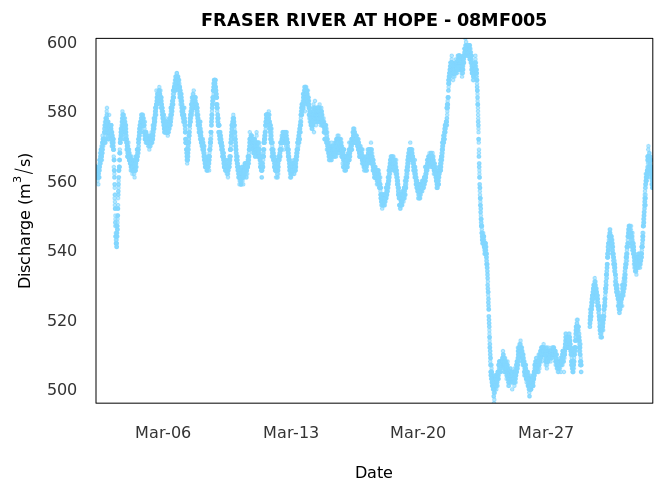
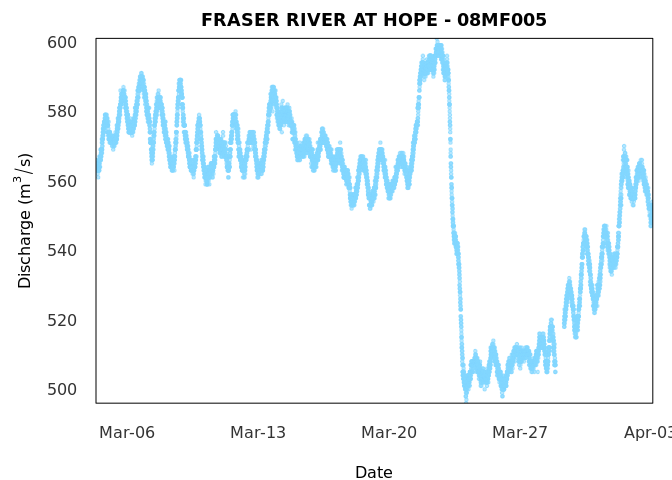
update for release

diff --git a/README.md b/README.md
@@ -5,7 +5,7 @@ tidyhydat <img src="man/figures/logo.png" align="right" />
 
 <!-- badges: start -->
 
-[![License](https://img.shields.io/badge/License-Apache%202.0-blue.svg)](https://opensource.org/license/apache-2-0/)
+[![License](https://img.shields.io/badge/License-Apache%202.0-blue.svg)](https://www.apache.org/licenses/LICENSE-2.0/)
 [![Coverage
 status](https://codecov.io/gh/ropensci/tidyhydat/branch/master/graph/badge.svg)](https://codecov.io/github/ropensci/tidyhydat?branch=master)
 [![R build
@@ -90,22 +90,22 @@ the same conventions discussed above. Using `realtime_dd()` we can
 easily select specific stations by supplying a station of interest:
 
     realtime_dd(station_number = "08MF005")
-    #>   Queried on: 2023-04-01 20:50:27 (UTC)
-    #>   Date range: 2023-03-02 to 2023-04-01 
-    #> # A tibble: 17,310 × 8
+    #>   Queried on: 2023-04-03 03:53:02 (UTC)
+    #>   Date range: 2023-03-04 to 2023-04-03 
+    #> # A tibble: 16,902 × 8
     #>    STATION_NUMBER PROV_TE…¹ Date                Param…² Value Grade Symbol Code 
     #>    <chr>          <chr>     <dttm>              <chr>   <dbl> <chr> <chr>  <chr>
-    #>  1 08MF005        BC        2023-03-02 08:00:00 Flow      562 <NA>  <NA>   1    
-    #>  2 08MF005        BC        2023-03-02 08:05:00 Flow      561 <NA>  <NA>   1    
-    #>  3 08MF005        BC        2023-03-02 08:10:00 Flow      564 <NA>  <NA>   1    
-    #>  4 08MF005        BC        2023-03-02 08:15:00 Flow      564 <NA>  <NA>   1    
-    #>  5 08MF005        BC        2023-03-02 08:20:00 Flow      563 <NA>  <NA>   1    
-    #>  6 08MF005        BC        2023-03-02 08:25:00 Flow      564 <NA>  <NA>   1    
-    #>  7 08MF005        BC        2023-03-02 08:30:00 Flow      564 <NA>  <NA>   1    
-    #>  8 08MF005        BC        2023-03-02 08:35:00 Flow      564 <NA>  <NA>   1    
-    #>  9 08MF005        BC        2023-03-02 08:40:00 Flow      564 <NA>  <NA>   1    
-    #> 10 08MF005        BC        2023-03-02 08:45:00 Flow      562 <NA>  <NA>   1    
-    #> # … with 17,300 more rows, and abbreviated variable names ¹PROV_TERR_STATE_LOC,
+    #>  1 08MF005        BC        2023-03-04 08:00:00 Flow      566 <NA>  <NA>   1    
+    #>  2 08MF005        BC        2023-03-04 08:05:00 Flow      564 <NA>  <NA>   1    
+    #>  3 08MF005        BC        2023-03-04 08:10:00 Flow      564 <NA>  <NA>   1    
+    #>  4 08MF005        BC        2023-03-04 08:15:00 Flow      564 <NA>  <NA>   1    
+    #>  5 08MF005        BC        2023-03-04 08:20:00 Flow      565 <NA>  <NA>   1    
+    #>  6 08MF005        BC        2023-03-04 08:25:00 Flow      564 <NA>  <NA>   1    
+    #>  7 08MF005        BC        2023-03-04 08:30:00 Flow      566 <NA>  <NA>   1    
+    #>  8 08MF005        BC        2023-03-04 08:35:00 Flow      564 <NA>  <NA>   1    
+    #>  9 08MF005        BC        2023-03-04 08:40:00 Flow      564 <NA>  <NA>   1    
+    #> 10 08MF005        BC        2023-03-04 08:45:00 Flow      564 <NA>  <NA>   1    
+    #> # … with 16,892 more rows, and abbreviated variable names ¹PROV_TERR_STATE_LOC,
     #> #   ²Parameter
 
 Or we can use `realtime_ws`:
@@ -121,20 +121,20 @@ Or we can use `realtime_ws`:
     #>   problems(dat)
     #> All station successfully retrieved
     #> All parameters successfully retrieved
-    #> # A tibble: 4,488 × 10
+    #> # A tibble: 4,267 × 10
     #>    STATIO…¹ Date                Name_En Value Unit  Grade Symbol Appro…² Param…³
     #>    <chr>    <dttm>              <chr>   <dbl> <chr> <chr> <chr>    <int>   <dbl>
-    #>  1 08MF005  2023-03-18 00:00:00 Water …  4.76 °C    -1    <NA>        NA       5
-    #>  2 08MF005  2023-03-18 01:00:00 Water …  3.91 °C    -1    <NA>        NA       5
-    #>  3 08MF005  2023-03-18 02:00:00 Water …  3.67 °C    -1    <NA>        NA       5
-    #>  4 08MF005  2023-03-18 03:00:00 Water …  3.57 °C    -1    <NA>        NA       5
-    #>  5 08MF005  2023-03-18 04:00:00 Water …  3.24 °C    -1    <NA>        NA       5
-    #>  6 08MF005  2023-03-18 05:00:00 Water …  3.21 °C    -1    <NA>        NA       5
-    #>  7 08MF005  2023-03-18 06:00:00 Water …  3.06 °C    -1    <NA>        NA       5
-    #>  8 08MF005  2023-03-18 07:00:00 Water …  3.11 °C    -1    <NA>        NA       5
-    #>  9 08MF005  2023-03-18 08:00:00 Water …  3.03 °C    -1    <NA>        NA       5
-    #> 10 08MF005  2023-03-18 09:00:00 Water …  2.93 °C    -1    <NA>        NA       5
-    #> # … with 4,478 more rows, 1 more variable: Code <chr>, and abbreviated variable
+    #>  1 08MF005  2023-03-20 00:00:00 Water …  5.19 °C    -1    <NA>        NA       5
+    #>  2 08MF005  2023-03-20 01:00:00 Water …  4.03 °C    -1    <NA>        NA       5
+    #>  3 08MF005  2023-03-20 02:00:00 Water …  3.93 °C    -1    <NA>        NA       5
+    #>  4 08MF005  2023-03-20 03:00:00 Water …  3.94 °C    -1    <NA>        NA       5
+    #>  5 08MF005  2023-03-20 04:00:00 Water …  3.84 °C    -1    <NA>        NA       5
+    #>  6 08MF005  2023-03-20 05:00:00 Water …  3.7  °C    -1    <NA>        NA       5
+    #>  7 08MF005  2023-03-20 06:00:00 Water …  3.71 °C    -1    <NA>        NA       5
+    #>  8 08MF005  2023-03-20 07:00:00 Water …  3.47 °C    -1    <NA>        NA       5
+    #>  9 08MF005  2023-03-20 08:00:00 Water …  3.64 °C    -1    <NA>        NA       5
+    #> 10 08MF005  2023-03-20 09:00:00 Water …  3.46 °C    -1    <NA>        NA       5
+    #> # … with 4,257 more rows, 1 more variable: Code <chr>, and abbreviated variable
     #> #   names ¹STATION_NUMBER, ²Approval, ³Parameter
 
 Compare realtime\_ws and realtime\_dd

diff --git a/cran-comments.md b/cran-comments.md
@@ -1,3 +1,22 @@
+tidyhydat 0.6.0
+=========================
+
+There were zero WARNINGS and zero ERRORS.
+
+## NEWS
+- Add capability to access ECCC webservice. The return of `realtime_ws`!
+
+## Test environments
+* win-builder (via `devtools::check_win_devel()` and `devtools::check_win_release()`)
+* local macOS, R 4.2.1 (via R CMD check --as-cran)
+* ubuntu-20.04, r: 'release' (github actions)
+* ubuntu-20.04, r: 'devel' (github actions)
+* macOS,        r: 'release' (github actions)
+* windows,      r: 'release' (github actions)
+* Fedora Linux, R-devel, clang, gfortran - r-hub
+* Debian Linux, R-release, GCC (debian-gcc-release) - r-hub
+* Windows Server 2008 R2 SP1, R-devel, 32/64 bit - r-hub
+
 tidyhydat 0.5.9
 =========================
 

diff --git a/NEWS.md b/NEWS.md
@@ -1,4 +1,4 @@
-# tidyhydat 0.5.9000
+# tidyhydat 0.6.0
 - Add capability to access ECCC webservice. The return of `realtime_ws`!
 
 # tidyhydat 0.5.9
